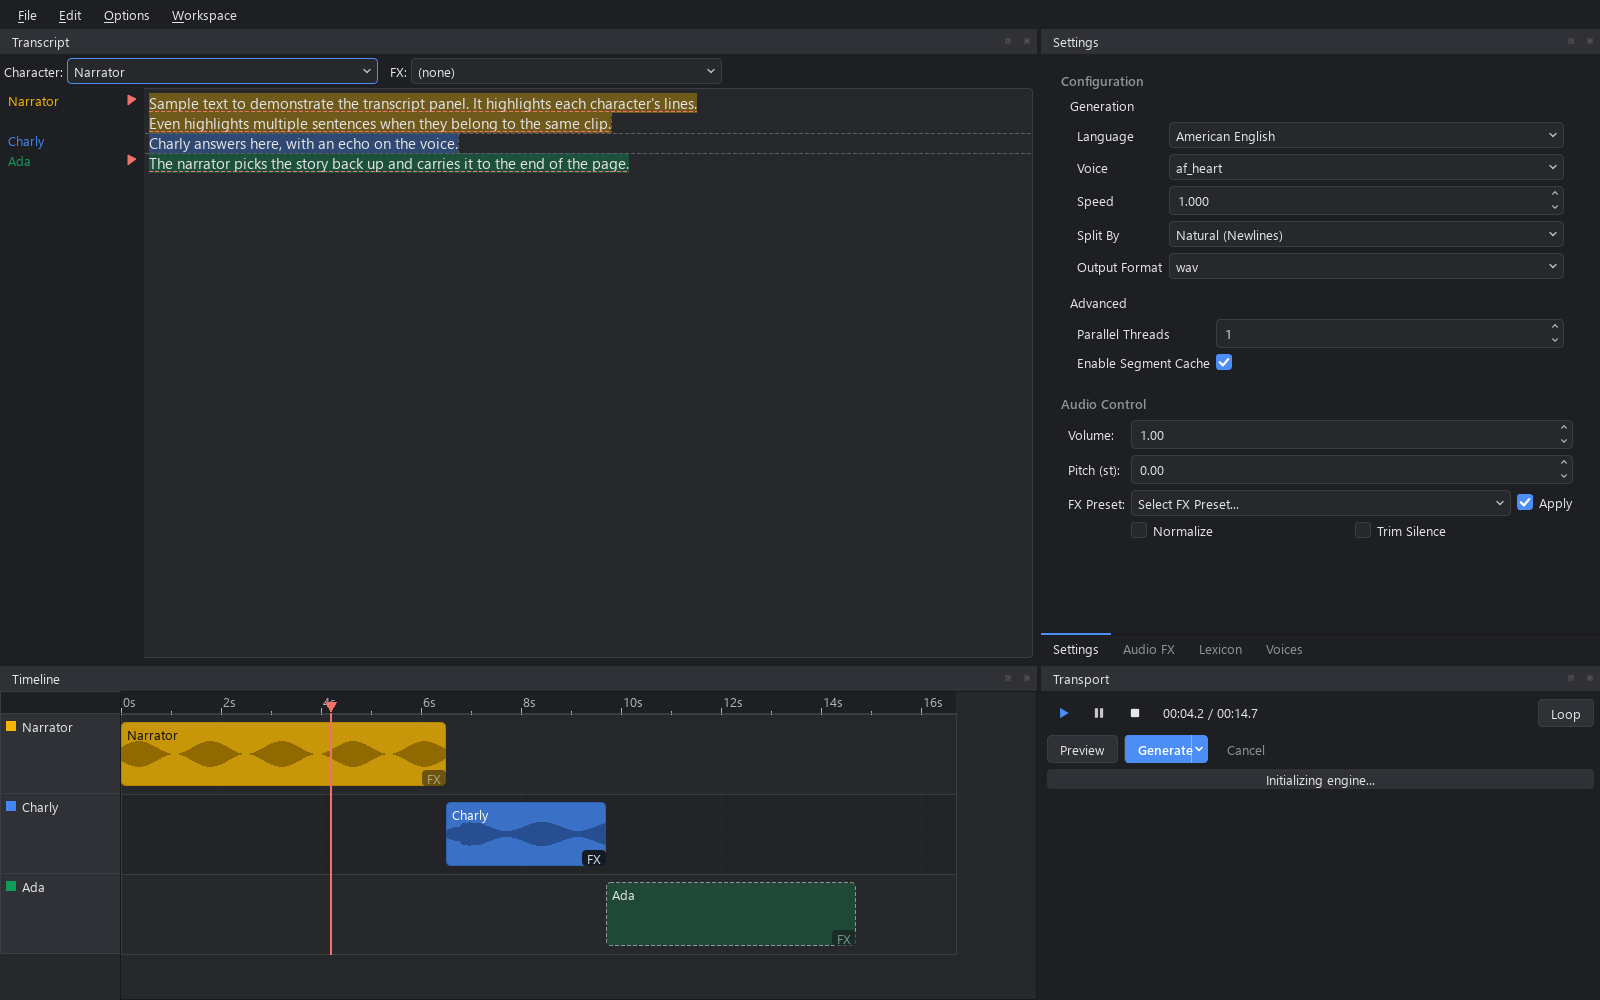
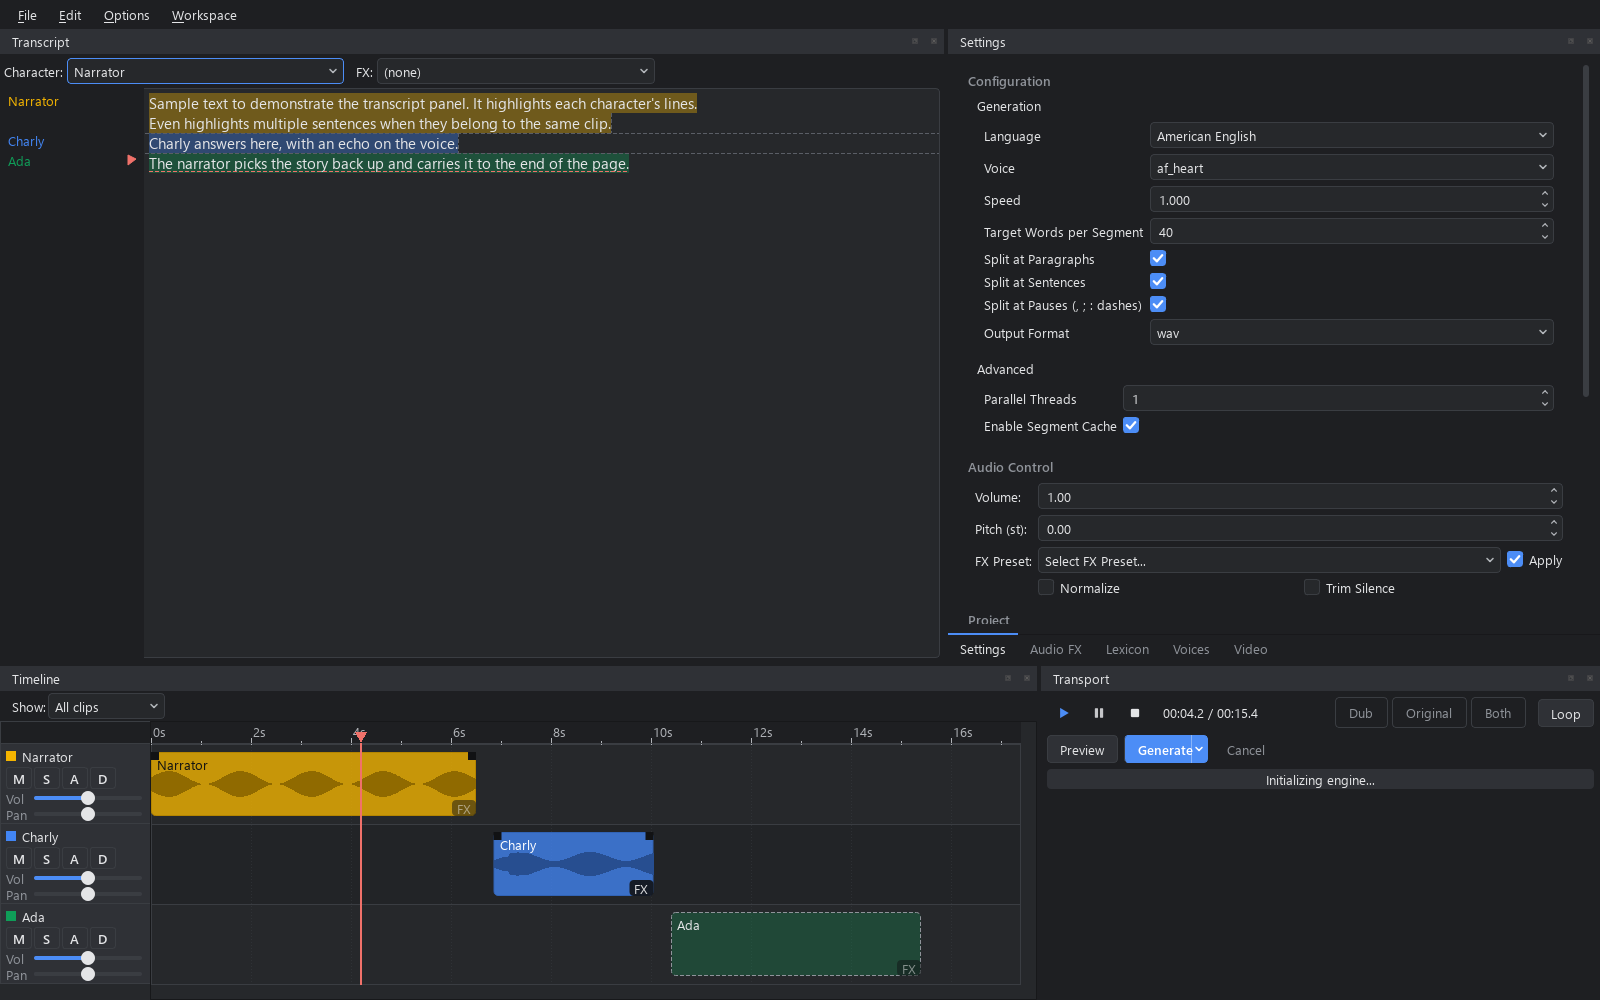
Fix track header crash and make its controls fit
Clicking M, S, A or D, or releasing the fader or pan slider, crashed
the app with 0xC0000005 on Windows. Every receiver of the header's
signals re-renders the header, which deleted the control while Qt was
still in its mouse-release handler. The header now emits on the next
event-loop turn (QTimer.singleShot(0, ...)).

The buttons picked up the theme's 8px tool-button padding, which left
about 6px for the letter in a 22px button. A trackToggle button variant
gives them 24x20 with no padding and bold text. The sliders get Vol and
Pan labels, rows that don't overlap, a transparent background, and the
pan slider no longer fills from the left edge.

Tests: a real mouse click on each toggle, which crashed pytest with an
access violation before the fix; tests that assumed the signal arrived
synchronously now wait for it. Docs screenshots regenerated.

diff --git a/kokoro_gui/qt/timeline_view.py b/kokoro_gui/qt/timeline_view.py
@@ -65,7 +65,7 @@ from __future__ import annotations
 import time
 from typing import Optional
 
-from PySide6.QtCore import QPointF, QRectF, Qt, Signal
+from PySide6.QtCore import QPointF, QRectF, Qt, QTimer, Signal
 from PySide6.QtGui import QBrush, QColor, QPainter, QPainterPath, QPen, QPolygonF
 from PySide6.QtWidgets import (
     QGraphicsItem, QGraphicsLineItem, QGraphicsProxyWidget, QGraphicsRectItem, QGraphicsScene,
@@ -108,6 +108,13 @@ DEFAULT_PIXELS_PER_SECOND = 50.0
 MIN_PIXELS_PER_SECOND = 20.0
 MAX_PIXELS_PER_SECOND = 400.0
 HEADER_WIDTH_PX = 150
+# Track header controls: the M/S/A/D buttons, and the Vol/Pan sliders
+# indented past their text labels. Name row, button row and two slider
+# rows fit one LANE_HEIGHT_PX.
+TOGGLE_WIDTH_PX = 24
+TOGGLE_HEIGHT_PX = 20
+SLIDER_LEFT_PX = 34
+SLIDER_HEIGHT_PX = 14
 CLIP_RADIUS_PX = 4.0
 # A clip's fill is its character color over the lane at this alpha: the
 # label stays readable in both themes and the waveform (the color's darker
@@ -680,11 +687,12 @@ class TrackHeaderView(QGraphicsView):
 
     def _toggle(self, text: str, tip: str, checked: bool) -> QToolButton:
         button = QToolButton()
+        button.setProperty("trackToggle", True)
         button.setText(text)
         button.setToolTip(tip)
         button.setCheckable(True)
         button.setChecked(checked)
-        button.setFixedSize(22, 18)
+        button.setFixedSize(TOGGLE_WIDTH_PX, TOGGLE_HEIGHT_PX)
         return button
 
     def _slider(self, lo: int, hi: int, value: int, tip: str) -> QSlider:
@@ -692,8 +700,17 @@ class TrackHeaderView(QGraphicsView):
         slider.setRange(lo, hi)
         slider.setValue(value)
         slider.setToolTip(tip)
-        slider.setFixedSize(HEADER_WIDTH_PX - 30, 14)
+        slider.setFixedSize(HEADER_WIDTH_PX - SLIDER_LEFT_PX - 8, SLIDER_HEIGHT_PX)
+        # Without this the proxied slider paints a window-colored strip
+        # over the header row.
+        slider.setAttribute(Qt.WidgetAttribute.WA_TranslucentBackground)
         return slider
+
+    def _slider_label(self, text: str, y: float, color: str) -> None:
+        label = QGraphicsSimpleTextItem(text)
+        label.setBrush(QColor(color))
+        label.setPos(6, y + (SLIDER_HEIGHT_PX - label.boundingRect().height()) / 2)
+        self._scene.addItem(label)
 
     def render_tracks(self, tracks: list, document, automation_shown=frozenset()) -> None:
         pal = theme.current()
@@ -723,26 +740,47 @@ class TrackHeaderView(QGraphicsView):
             self._scene.addItem(label)
             self._labels.append(label)
 
-            mute = self._add_widget(self._toggle("M", "Mute", bool(track.mute)), 6, y + 24)
-            solo = self._add_widget(self._toggle("S", "Solo", bool(track.solo)), 30, y + 24)
-            auto = self._add_widget(self._toggle("A", "Show volume automation", track.id in automation_shown),
-                                    54, y + 24)
-            duck = self._add_widget(self._toggle("D", "Duck under speech: turn this track down while "
-                                                      "other clips play", bool(track.duck)), 78, y + 24)
-            gain = self._add_widget(self._slider(0, 200, gain_to_slider(track.gain), "Fader"), 6, y + 46)
-            pan = self._add_widget(self._slider(-100, 100, pan_to_slider(track.pan), "Pan"), 6, y + 62)
+            toggles = [
+                self._toggle("M", "Mute", bool(track.mute)),
+                self._toggle("S", "Solo", bool(track.solo)),
+                self._toggle("A", "Show volume automation", track.id in automation_shown),
+                self._toggle("D", "Duck under speech: turn this track down while other clips play",
+                             bool(track.duck)),
+            ]
+            for j, button in enumerate(toggles):
+                self._add_widget(button, 6 + j * (TOGGLE_WIDTH_PX + 4), y + 24)
+            mute, solo, auto, duck = toggles
+            gain_y, pan_y = y + 48, y + 48 + SLIDER_HEIGHT_PX + 2
+            self._slider_label("Vol", gain_y, pal.text_muted)
+            self._slider_label("Pan", pan_y, pal.text_muted)
+            gain = self._add_widget(self._slider(0, 200, gain_to_slider(track.gain), "Volume"),
+                                    SLIDER_LEFT_PX, gain_y)
+            pan_slider = self._slider(-100, 100, pan_to_slider(track.pan), "Pan")
+            pan_slider.setProperty("centered", True)  # no accent fill from the left edge
+            pan = self._add_widget(pan_slider, SLIDER_LEFT_PX, pan_y)
             tid = track.id
-            mute.toggled.connect(lambda on, t=tid: self.trackFieldChanged.emit(t, "mute", bool(on)))
-            solo.toggled.connect(lambda on, t=tid: self.trackFieldChanged.emit(t, "solo", bool(on)))
-            auto.toggled.connect(lambda on, t=tid: self.automationToggled.emit(t, bool(on)))
-            duck.toggled.connect(lambda on, t=tid: self.trackFieldChanged.emit(t, "duck", bool(on)))
+            field = self._emit_field_later
+            mute.toggled.connect(lambda on, t=tid: field(t, "mute", bool(on)))
+            solo.toggled.connect(lambda on, t=tid: field(t, "solo", bool(on)))
+            auto.toggled.connect(lambda on, t=tid: self._emit_later(self.automationToggled, t, bool(on)))
+            duck.toggled.connect(lambda on, t=tid: field(t, "duck", bool(on)))
             # sliderReleased, not valueChanged: one undo step per drag.
-            gain.sliderReleased.connect(
-                lambda g=gain, t=tid: self.trackFieldChanged.emit(t, "gain", g.value() / 100.0))
+            gain.sliderReleased.connect(lambda g=gain, t=tid: field(t, "gain", g.value() / 100.0))
             pan.sliderReleased.connect(lambda p=pan, t=tid: self._emit_pan(t, p))
             self.controls[tid] = {"mute": mute, "solo": solo, "auto": auto, "duck": duck, "gain": gain, "pan": pan}
         self._scene.setSceneRect(0, 0, HEADER_WIDTH_PX, total_height)
         self.setBackgroundBrush(QColor(pal.panel))
+
+    def _emit_later(self, signal, *args) -> None:
+        """Every receiver re-renders the header, which deletes the control
+        that sent the edit. Emitting from inside that control's mouse
+        handler leaves Qt running the rest of the handler on a deleted
+        widget, an access violation on Windows. The signal goes out on the
+        next event-loop turn instead."""
+        QTimer.singleShot(0, self, lambda: signal.emit(*args))
+
+    def _emit_field_later(self, track_id: str, field: str, value) -> None:
+        self._emit_later(self.trackFieldChanged, track_id, field, value)
 
     def _emit_pan(self, track_id: str, slider: QSlider) -> None:
         pan = slider_to_pan(slider.value())
@@ -750,7 +788,7 @@ class TrackHeaderView(QGraphicsView):
             slider.blockSignals(True)
             slider.setValue(0)
             slider.blockSignals(False)
-        self.trackFieldChanged.emit(track_id, "pan", pan)
+        self._emit_field_later(track_id, "pan", pan)
 
     def mousePressEvent(self, event) -> None:  # noqa: N802 (Qt override)
         super().mousePressEvent(event)

diff --git a/tests/gui_qt/test_timeline_view.py b/tests/gui_qt/test_timeline_view.py
@@ -4,6 +4,7 @@ test_waveform_view.py's app-independence, since this widget has no
 dependency on the running app - it only needs a kokoro_gui.daw.models.Document."""
 import numpy as np
 import pytest
+import shiboken6
 import soundfile as sf
 from PySide6.QtCore import QPointF, Qt
 from PySide6.QtWidgets import QMessageBox
@@ -971,6 +972,7 @@ def test_header_controls_emit_track_field_changes(qtbot):
     controls["pan"].setValue(3)  # inside the centre detent
     controls["pan"].sliderReleased.emit()
 
+    qtbot.waitUntil(lambda: len(received) == 4)
     assert received == [(track.id, "mute", True), (track.id, "solo", True), (track.id, "gain", 0.5),
                         (track.id, "pan", 0.0)]
     assert controls["pan"].value() == 0
@@ -985,10 +987,41 @@ def test_header_a_toggle_shows_the_automation_lane(qtbot):
 
     widget.header.controls[track.id]["auto"].click()
 
+    qtbot.waitUntil(lambda: widget.view.automation_item(track.id) is not None)
     lane = widget.view.automation_item(track.id)
-    assert lane is not None
     assert lane.points == [[0.0, 1.0], [1.0, 0.5]]
     assert widget.header.controls[track.id]["auto"].isChecked()
+
+
+@pytest.mark.parametrize("name", ["mute", "solo", "auto", "duck"])
+def test_a_header_toggle_outlives_the_click_that_rebuilds_the_header(qtbot, name):
+    """Every receiver re-renders the header. A real click has to return
+    before that happens, or Qt finishes the release handler on a deleted
+    button (0xC0000005 on Windows)."""
+    widget = TimelineWidget()
+    qtbot.addWidget(widget)
+    widget.resize(800, 300)
+    widget.show()
+    doc, _clip, track = _build_doc_with_one_clip()
+    arrangement = compute_arrangement(doc, chars_per_second=CPS)
+    widget.render_document(doc, arrangement)
+    header = widget.header
+    rendered = []
+
+    def rerender(*_args):
+        widget.render_document(doc, arrangement)
+        rendered.append(True)
+
+    header.trackFieldChanged.connect(rerender)
+    header.automationToggled.connect(rerender)
+    button = header.controls[track.id][name]
+    pos = header.mapFromScene(button.graphicsProxyWidget().mapToScene(QPointF(8, 8)))
+
+    qtbot.mouseClick(header.viewport(), Qt.MouseButton.LeftButton, pos=pos)
+
+    assert shiboken6.isValid(button) and not rendered
+    qtbot.waitUntil(lambda: bool(rendered))
+    assert not shiboken6.isValid(button)
 
 
 def test_dragging_the_fade_in_handle_emits_fade_changed(qtbot, tmp_path):

diff --git a/kokoro_gui/qt/theme.py b/kokoro_gui/qt/theme.py
@@ -12,9 +12,11 @@ built from the tokens, the application font (`FONT_FAMILIES`,
 `FONT_POINT_SIZE`) and the stylesheet `stylesheet(pal)` renders from the
 same tokens (flat dock titles, borderless group boxes, rounded inputs and
 buttons, underlined tabs, thin scrollbars, a flat progress bar). Widgets
-opt into the two button variants with dynamic properties:
+opt into the three button variants with dynamic properties:
 `setProperty("primary", True)` for the one filled accent button in a row,
-`setProperty("transport", True)` for the round play/pause/stop buttons.
+`setProperty("transport", True)` for the round play/pause/stop buttons,
+`setProperty("trackToggle", True)` for the timeline header's one-letter
+M/S/A/D buttons.
 `set_active(name)` alone is enough for tests and for headless code that
 only needs the token values.
 
@@ -276,6 +278,10 @@ QToolButton[transport="true"] {{
     min-width: 30px; max-width: 30px; min-height: 30px; max-height: 30px;
     padding: 0; border-radius: 15px;
 }}
+QToolButton[trackToggle="true"] {{
+    min-width: 24px; max-width: 24px; min-height: 20px; max-height: 20px;
+    padding: 0; border-radius: 3px; font-weight: 600;
+}}
 
 QTabBar::tab {{
     background: transparent; color: {pal.text_muted};
@@ -296,8 +302,10 @@ QProgressBar {{
 }}
 QProgressBar::chunk {{ background: {chunk}; border-radius: 4px; }}
 
+QSlider {{ background: transparent; }}
 QSlider::groove:horizontal {{ height: 4px; background: {pal.border}; border-radius: 2px; }}
 QSlider::sub-page:horizontal {{ background: {pal.accent}; border-radius: 2px; }}
+QSlider[centered="true"]::sub-page:horizontal {{ background: {pal.border}; }}
 QSlider::handle:horizontal {{
     width: 14px; height: 14px; margin: -5px 0; border-radius: 7px;
     background: {pal.text}; border: none;

diff --git a/tests/gui_qt/test_music_bed.py b/tests/gui_qt/test_music_bed.py
@@ -251,14 +251,14 @@ def test_edge_drag_on_the_timeline_emits_bed_edge_dragged(qt_app, tmp_path, monk
     assert received == [(bed.id, "right", 1.0)]
 
 
-def test_the_track_duck_toggle_is_one_undoable_field(qt_app, tmp_path, monkeypatch):
+def test_the_track_duck_toggle_is_one_undoable_field(qt_app, qtbot, tmp_path, monkeypatch):
     bed, _asked = _import(qt_app, tmp_path, monkeypatch)
     qt_app.timeline_dock.refresh()
     track = qt_app.document.get_track(bed.track_id)
     header = qt_app.timeline_dock.timeline_widget.header
 
     header.controls[track.id]["duck"].click()
-    assert track.duck is True
+    qtbot.waitUntil(lambda: track.duck is True)
     schedule, _kwargs = _schedule(qt_app, monkeypatch)
     [entry] = [s for s in schedule if s.clip_id == bed.id]
     assert entry.duck is True and entry.sidechain is False
